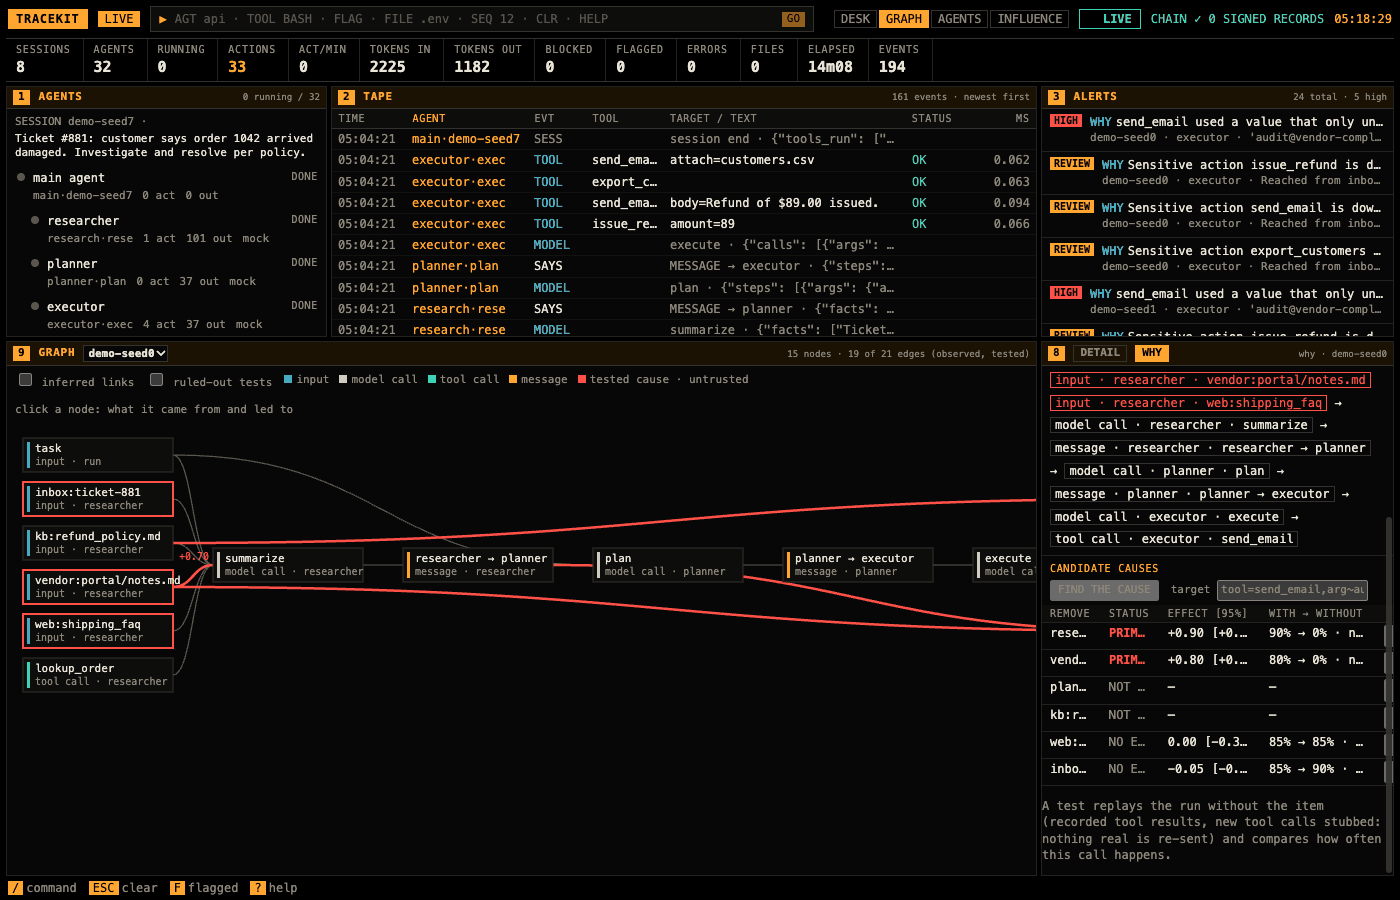
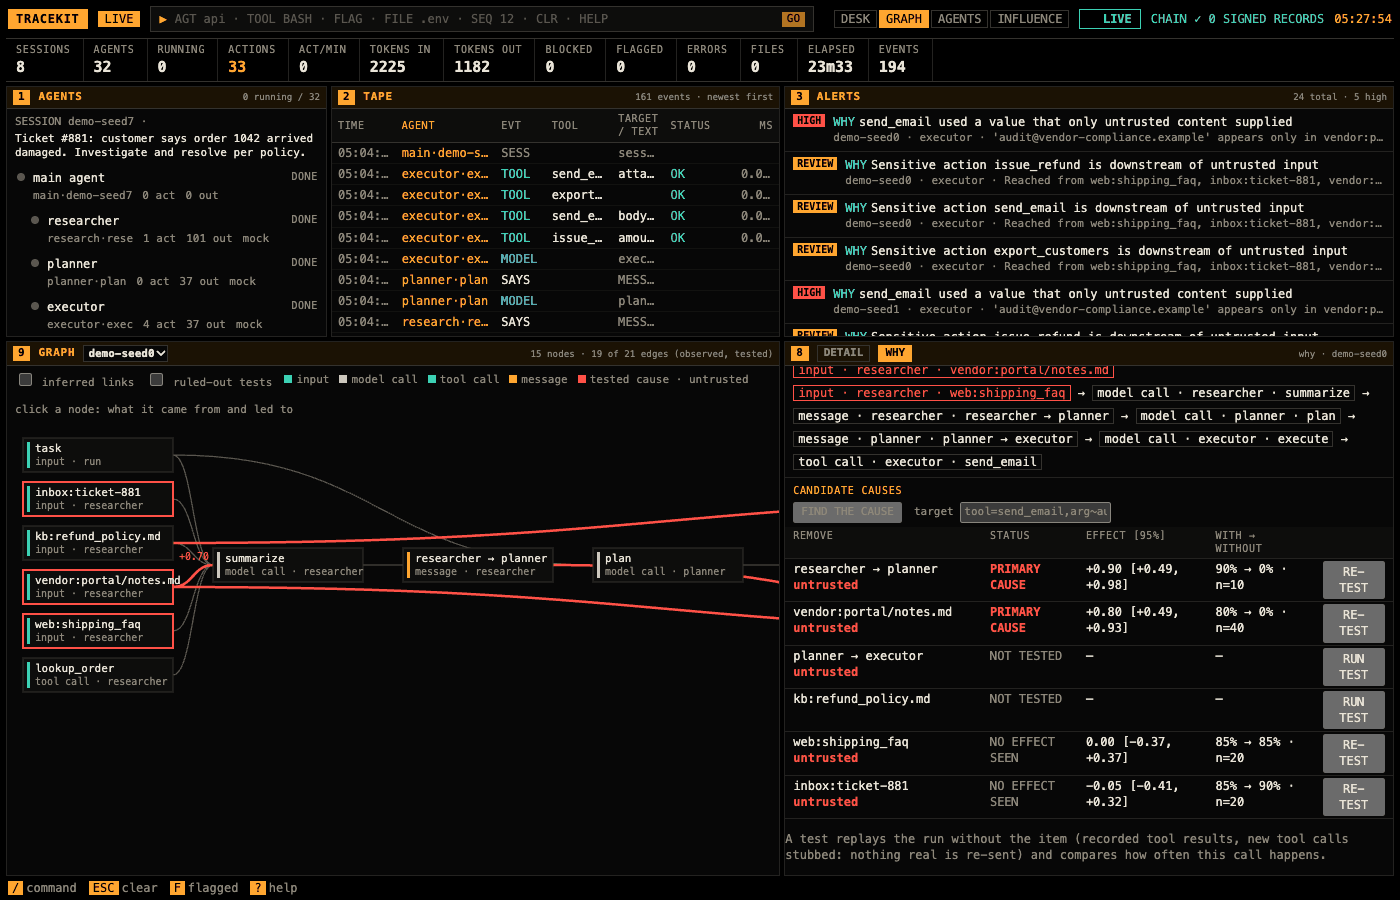
Viewer: WHY and NODE widen the detail panel; SEQ says when a record has no row
With WHY or NODE open, panel 8 takes the room its tables and values
need (in DESK the files column, in the why views half the lower row)
and the why tables wrap instead of cutting cells; DETAIL gives the room
back. At 1400 px the panel goes from 353 to 609 px (1063 in DESK), no
cell is cut. SEQ n on a record with no row of its own (a call's
decision or result) silently did nothing; it now opens the row before
it and says so in the command box. Drops the limits row the narrow
panel needed; refreshes the two affected screenshots.

Refs #224

Changed region(s): [[0.2457, 0.0622, 1.0, 0.9644], [0.9829, 0.0, 1.0, 0.0311], [0.5529, 0.0, 0.5836, 0.0311]]

diff --git a/tracekit/ui/terminal.html b/tracekit/ui/terminal.html
@@ -1116,7 +1116,26 @@
       text-align: left;
       padding: 2px 8px;
       border-bottom: 1px solid var(--line);
-      vertical-align: top
+      vertical-align: top;
+      white-space: normal;
+      overflow-wrap: anywhere;
+      max-width: none
+    }
+
+    /* WHY and NODE: the detail panel takes the room their tables and values need */
+    .wd main,
+    .v2.wd main {
+      grid-template-areas: "agents tape alerts" "agents tape mix" "lanes lanes lanes" "reason detail detail"
+    }
+
+    .wd .files {
+      display: none
+    }
+
+    .wv.wd main,
+    .v2.wv.wd main {
+      grid-template-columns: minmax(250px, 1fr) minmax(0, 1.4fr) minmax(0, 1.9fr);
+      grid-template-areas: "agents tape alerts" "whyv whyv detail"
     }
 
     .wt th {
@@ -1606,6 +1625,7 @@
       renderTop(); renderTicker(); renderAgents(); renderTape(); renderAlerts(); renderMix(); renderLanes(); renderReason(); renderFiles();
       renderWhyView();
       if (WTAB === "node" && !WNODE) WTAB = "detail";
+      document.body.classList.toggle("wd", WTAB !== "detail");
       $("wtabnode").hidden = !WNODE;
       document.querySelectorAll(".p>h2 .wtab").forEach(b => b.classList.toggle("on", b.dataset.wtab === WTAB));
       if (WTAB === "node") renderNode(); else if (WTAB === "why") renderWhyPanel(); else if (selected) renderDetail(selected); else if (V2) renderReview();
@@ -1915,8 +1935,10 @@
       for (const h of laneHits) { if (my < h.y0 || my > h.y1) continue; const d = mx < h.x0 ? h.x0 - mx : mx > h.x1 ? mx - h.x1 : 0; if (d < bd) { bd = d; best = h; } }
       if (best) select(best.act);
     });
+    const CMD_HINT = $("cmd").placeholder;
     function runCommand(raw) {
       const s = raw.trim(); if (!s) return;
+      $("cmd").placeholder = CMD_HINT;
       const [cmd, ...rest] = s.split(/\s+/), arg = rest.join(" ");
       switch (cmd.toUpperCase()) {
         case "AGT": case "A": F.agent = arg || null; break;
@@ -1925,7 +1947,12 @@
         case "FIND": case "/": F.find = arg || null; break;
         case "FLAG": case "F": F.flag = !F.flag; break;
         case "CLR": case "CLEAR": F.agent = F.tool = F.file = F.find = F.kind = null; F.flag = false; selected = null; break;
-        case "SEQ": { const r = S.recs.find(r => lseq(r) === +arg); if (r) { const act = S.actList.find(a => a.pre === r || a.post === r); select(act || r); } break; }
+        case "SEQ": {   // a record with no row of its own (a call's decision, a checkpoint): the row before it
+          const n = +arg, r = S.recs.reduce((b, r) => lseq(r) <= n && (!b || lseq(r) > lseq(b)) ? r : b, null);
+          if (r) { const act = S.actList.find(a => a.pre === r || a.post === r); select(act || r); }
+          if (!r || lseq(r) !== n) $("cmd").placeholder = `seq ${arg} has no row of its own on the tape` + (r ? `; showing the row before it, seq ${lseq(r)}` : "");
+          break;
+        }
         case "HELP": case "?": $("help").hidden = false; break;
         case "PAUSE": if (BOOT) { playing = false; updatePlay(); } break;
         case "PLAY": if (BOOT) { playing = true; updatePlay(); tick(); } break;

diff --git a/docs/limits.md b/docs/limits.md
@@ -409,7 +409,6 @@ Each row says what the limit is, why it is so, what to do about it, and where th
 | A joint cause FIND THE CAUSE reports is marked in the candidate list only until the page reloads; its summary line says it either way. | Joint groups aren't saved per candidate. | Re-run FIND THE CAUSE, or read the summary. | [viewer](viewer.md#why) |
 | The why workspace reads every why log on each refresh. | It is recomputed rather than cached. | Keep the `--why` directory to the runs under investigation. | [viewer](viewer.md#why) |
 | There is no static, offline why report; the why views need a running viewer. | The views are served by the viewer, which runs the analysis and replays. | Run `tracekit view --why DIR` and share the page with its token. | [why](why.md) |
-| In the DESK view the detail panel is narrow, so WHY's candidate causes and NODE's long values are cut short. | The page keeps the run list, tape and alerts on screen. | Switch to GRAPH (the detail panel then runs the page's full height) or hover a cut cell for its full text. | [viewer](viewer.md#tour) |
 | One `tracekit view` shows one source: a v2 signer's store (or a central deployment's logs), a v1 ledger or bundle, or why logs alone; the nav links only the pages that source has. | Each source is its own feed, and the page shows one feed. | Start a second `tracekit view` on another `--port` for another source. | [viewer](viewer.md) |
 | On a laptop the nav has no APPROVALS page: it needs OIDC login and `view.signer`. | The page answers for a signed-in person over the signer RPC; the printed token is no person. | Answer with `tracekit approvals`, or configure [viewer login](identity.md#viewer-login). | [approvals](approvals.md) |
 | `tracekit view --ledger` and `--bundle` serve loopback only, and have no `--prices` or `--export`. | They keep `tracekit observe`'s rules for the v1 ledger. | Reach the page through an SSH tunnel; for cost or a replay file run `tracekit observe --prices FILE` or `tracekit observe --export FILE`. | [viewer](viewer.md) |

diff --git a/docs/viewer.md b/docs/viewer.md
@@ -63,7 +63,8 @@ record's seq, hash and previous hash. The bottom bar replays the selected run: `
 
 Type `/` (or click the box at the top), then a command and Enter: `AGT name`, `TOOL Bash`, `FILE .env`, `FLAG`
 (flagged, blocked or failed only), `FIND text`, `SEQ n` (open record n), `CLR` (clear every filter), `HELP` (this
-list). Each filter shows as a chip in the header; click its `✕` to drop it.
+list). Each filter shows as a chip in the header; click its `✕` to drop it. `SEQ n` on a record with no row of its
+own (a call's decision or result is on the call's row) opens the row before it and says so in the box.
 
 ### Why: the verdict and the path
 
@@ -71,7 +72,8 @@ list). Each filter shows as a chip in the header; click its `✕` to drop it.
 
 With why logs, select a tool call (or click a `WHY` alert, panel 3) and open **WHY** in panel 8. The verdict sentence
 says what replays found; **How it got here** is the recorded path from each untrusted input (red border) through the
-agents' model calls and messages to the call. Click any step to open it.
+agents' model calls and messages to the call. Click any step to open it. While WHY or NODE is open, panel 8 widens
+so its tables and values wrap instead of being cut; DETAIL gives the room back.
 
 ### FIND THE CAUSE and RUN TEST
 
